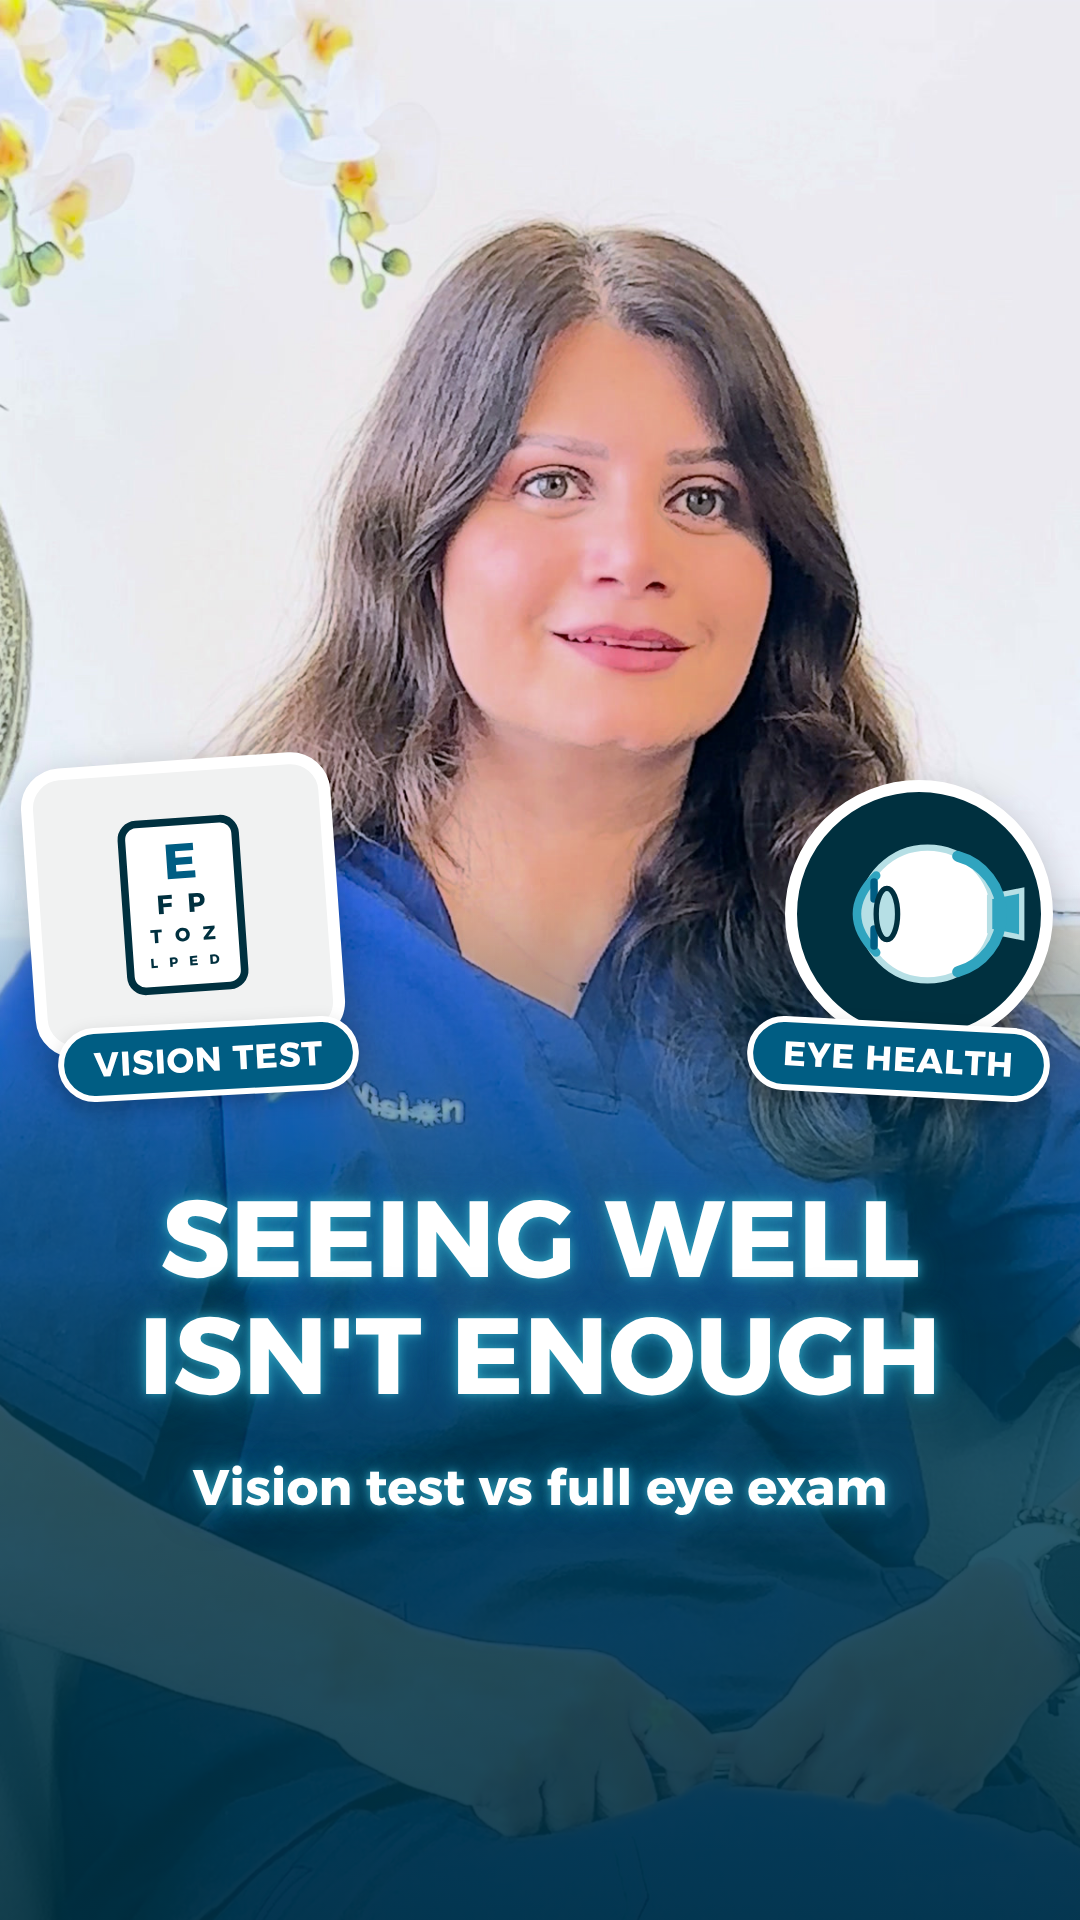
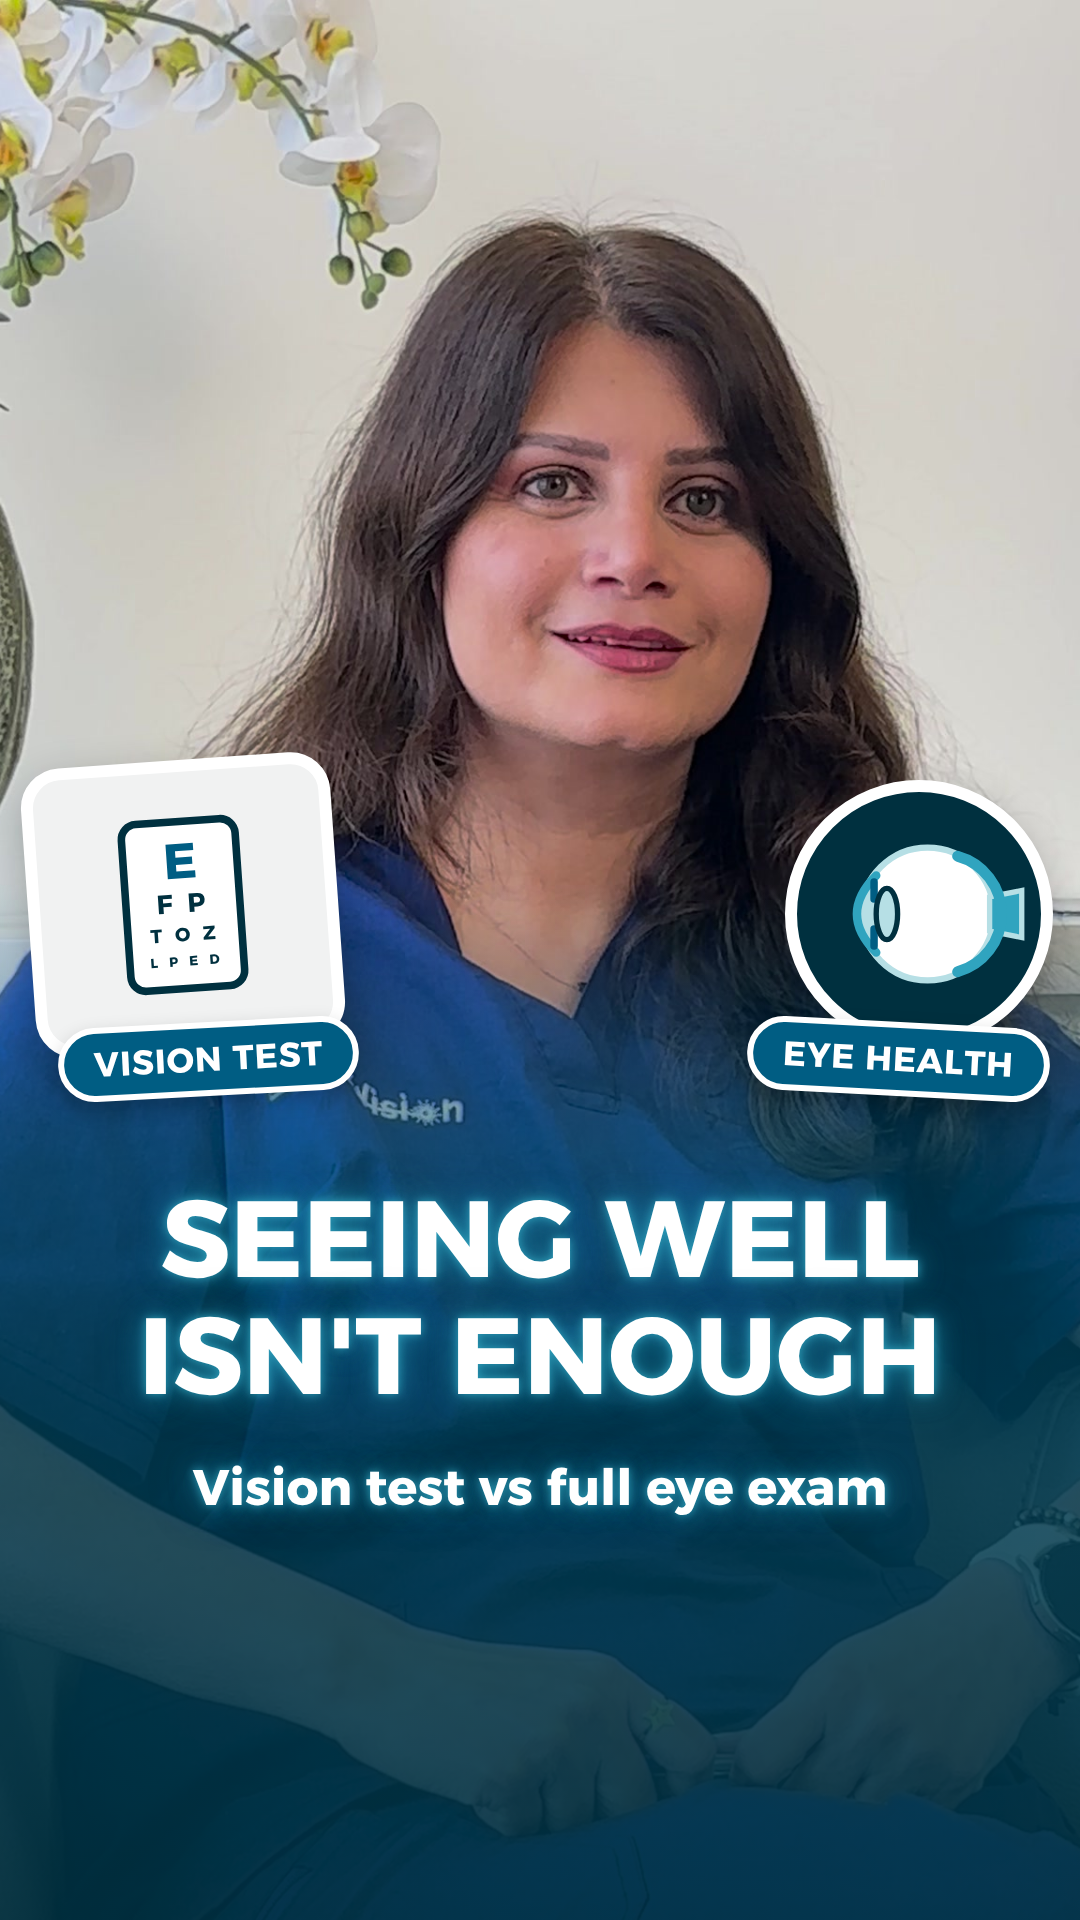
Eye exam reel cover v3: Luna's pick of the colour grade (hable tone-map)
Claude-Session: https://claude.ai/code/session_018171GFzD2GfSfAiKEuZ7ds

diff --git a/covers/laservision/eye-exam-vs-vision-test/cover.html b/covers/laservision/eye-exam-vs-vision-test/cover.html
@@ -13,7 +13,7 @@ body{width:1080px;height:1920px;position:relative;overflow:hidden;background:#00
 .h{font-size:108px;line-height:1.08}
 .s{margin-top:44px;font-size:50px}
 </style></head><body>
-<!-- LaserVision · Eye exam vs vision test reel (IMG_1389, 13 Nov). Background: IMG_1389.mov at 0:01.2, HDR (HLG) tone-mapped to SDR + cooled to 7200 K (v2, 24 Nov: v1 was grey/yellow)
+<!-- LaserVision · Eye exam vs vision test reel (IMG_1389, 13 Nov). Background: IMG_1389.mov at 0:01.2, HDR (HLG) tone-mapped to SDR with hable (Luna picked this grade, 24 Nov)
      (mouth closed, soft smile, eyes to camera). Render: Playwright screenshot at 1080×1920. -->
 <div class="bg"></div><div class="scrim"></div>
 <!-- Left sticker: eye chart (the vision test) -->
